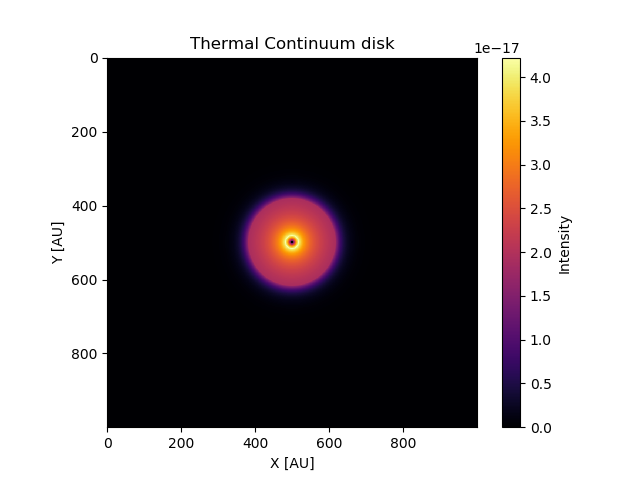
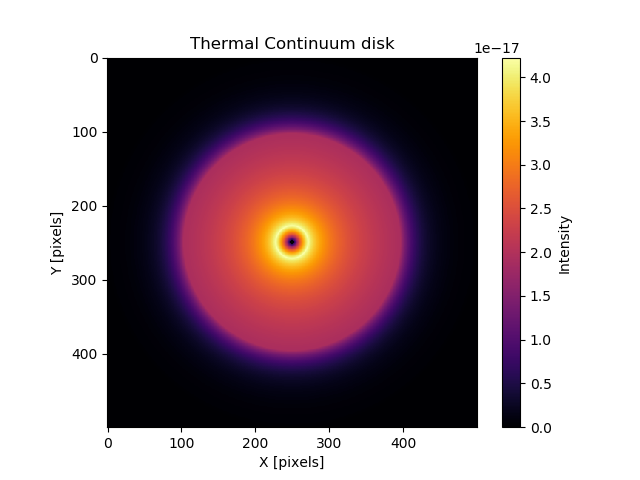
cleanup

diff --git a/code/convolution.py b/code/convolution.py
@@ -8,21 +8,37 @@ from astropy.convolution import convolve, Gaussian2DKernel
 
 from modelImage import *
 
-root_directory = os.path.dirname(os.path.dirname(os.path.realpath(__file__)))
-data_directory = root_directory + "\\data\\"
-figures_directory = data_directory + "codeFigures\\"
+def convolveImageGaussian2D(image, sigma_x, sigma_y = 1, theta = 0):
+    """
+    Convolve the image with a 2D Gaussian kernel.
+    image is a nd numpy array,
+    sigma x and y are the pre-rotation standard deviations,
+    theta is the rotation angle in radians.
+    """
 
-def pyName():
-    return __file__.split("\\")[-1].replace(".py", "")
+    kernel = Gaussian2DKernel(sigma_x, sigma_y, theta)
+    convolved_image = convolve(image, kernel)
+
+    return convolved_image
 
 if __name__ == "__main__":
 
+    def pyName():
+        return __file__.split("\\")[-1].replace(".py", "")
+
+    root_directory = os.path.dirname(os.path.dirname(os.path.realpath(__file__)))
+    figures_directory = root_directory + "\\data\\codeFigures\\"
+
     image, pixelDimension, pixelSize = loadImageTXT("image.txt")
-    kernel = Gaussian2DKernel(x_stddev = 10, y_stddev = 8, theta = np.pi/3)
 
-    convolved_image = convolve(image, kernel)
+    sigma_x = 15
+    sigma_y = 7
+    theta = np.pi / 3
 
-    plt.figure(1, figsize=(12, 6)).clf()
+    convolved_image = convolveImageGaussian2D(image, sigma_x, sigma_y, theta)
+    kernel = Gaussian2DKernel(sigma_x, sigma_y, theta)
+
+    plt.figure("image convolution", figsize=(12, 6))
 
     ax1 = plt.subplot(1, 3, 1)
     ax1.imshow(image, cmap="inferno")
@@ -31,7 +47,7 @@ if __name__ == "__main__":
     ax1.set_ylabel("Y [pixels]")
 
     ax2 = plt.subplot(1, 3, 2)
-    ax2.imshow(kernel, interpolation="none")
+    ax2.imshow(kernel, cmap="viridis")
     ax2.set_title("Kernel")
     ax2.set_xlabel("X [pixels]")
     ax2.set_ylabel("Y [pixels]")

diff --git a/code/radialProfile.py b/code/radialProfile.py
@@ -1,5 +1,7 @@
 # Michael Stroet  11293284
 
+# Extracts a radial profile from a 2D image
+
 import os, sys
 import numpy as np
 import matplotlib.pyplot as plt
@@ -7,23 +9,24 @@ import matplotlib.pyplot as plt
 from scipy.ndimage import map_coordinates
 from astropy.convolution import convolve, Gaussian2DKernel
 
-from modelImage import *
+from modelImage import loadImageTXT
 
-root_directory = os.path.dirname(os.path.dirname(os.path.realpath(__file__)))
-data_directory = root_directory + "\\data\\"
-figures_directory = data_directory + "codeFigures\\"
-
-def pyName():
-    return __file__.split("\\")[-1].replace(".py", "")
+def getRadialProfile(image, pixelDimension, pixelSize, angle):
+    pass
 
 if __name__ == "__main__":
 
-    print("loading image:")
-    image, pixelDimension, pixelSize = loadImageTXT("image.txt")
+
+
+    def pyName():
+        return __file__.split("\\")[-1].replace(".py", "")
+        
+    root_directory = os.path.dirname(os.path.dirname(os.path.realpath(__file__)))
+    figures_directory = root_directory + "\\data\\codeFigures\\"
+
+    image, (pixelDimension, pixelSize) = loadImageTXT("image.txt")
     print(pixelDimension, pixelSize)
     print(image)
-
-    print("image loaded\n")
 
     kernel = Gaussian2DKernel(x_stddev = 10, y_stddev = 8, theta = np.pi/3)
     convolved_image = convolve(image, kernel)
@@ -69,5 +72,7 @@ if __name__ == "__main__":
 
     ax4 = plt.subplot(2,2,4)
     ax4.plot(convolved_profile)
+
+    plt.savefig(figures_directory + pyName() + ".png")
 
     plt.show()

diff --git a/code/modelImage.py b/code/modelImage.py
@@ -63,13 +63,17 @@ def loadImageTXT(filename):
     Loads an image saved as a txt file.
     """
 
+    # Open the requested file and extract the header data and the image
     with open(data_directory + filename) as file:
         header_data = file.readline().replace(" ", "").strip("#\n").split(",")
         image = np.loadtxt(data_directory + filename)
 
-    return image, int(header_data[0]), float(header_data[1])
+    return image, (int(header_data[0]), float(header_data[1]))
 
 if __name__ == "__main__":
+
+    def pyName():
+        return __file__.split("\\")[-1].replace(".py", "")
 
     # Parameters
     frequency = 365.5e9 # Hz
@@ -79,7 +83,6 @@ if __name__ == "__main__":
     pixelDimension = 500
 
     image = getImageMatrix(frequency, inclination, R_inner, R_outer, pixelDimension)
-    saveImagePNG(image, "image.png")
-    saveImageTXT(image, pixelDimension, R_outer, "image.txt")
+    saveImagePNG(image, f"codeFigures\\{pyName()}.png")
 
     plt.show()

diff --git a/code/equations.py b/code/equations.py
@@ -7,9 +7,6 @@ import os, sys
 import numpy as np
 import matplotlib.pyplot as plt
 
-root_directory = os.path.dirname(os.path.dirname(os.path.realpath(__file__)))
-figures_directory = root_directory + "\\data\\codeFigures\\"
-
 def planckFunction(v, R):
     """
     Returns the intensity of thermal radiation a black body emits
@@ -80,10 +77,13 @@ def thermalIntensity(v, R, i):
 
     return planckFunction(v, diskTemperature(R)) * (1 - np.exp(-1 * dustOpticalDepth(R, i)))
 
-def pyName():
-    return __file__.split("\\")[-1].replace(".py", "")
-
 if __name__ == "__main__":
+
+    def pyName():
+        return __file__.split("\\")[-1].replace(".py", "")
+
+    root_directory = os.path.dirname(os.path.dirname(os.path.realpath(__file__)))
+    figures_directory = root_directory + "\\data\\codeFigures\\"
 
     # Test planckFunction
 

diff --git a/code/main.py b/code/main.py
@@ -9,17 +9,19 @@ root_directory = os.path.dirname(os.path.dirname(os.path.realpath(__file__)))
 # Add a path to the data folder
 sys.path.append(os.path.join(root_directory, "data"))
 
-from equations import *
 from modelImage import *
 
 if __name__ == "__main__":
-    
+
     # Parameters
     frequency = 365.5e9 # Hz
     inclination = 0.0*np.pi # [0, np.pi/2]
     R_inner = 1 # AU
-    R_outer = 200 # AU
+    R_outer = 80 # AU
+    pixelDimension = 500
 
-    image = getImageMatrix(frequency, inclination, R_inner, R_outer)
-    plotImage(image)
+    image = getImageMatrix(frequency, inclination, R_inner, R_outer, pixelDimension)
+    saveImagePNG(image, f"image.png")
+    saveImageTXT(image, pixelDimension, R_outer, "image.txt")
+
     plt.show()
